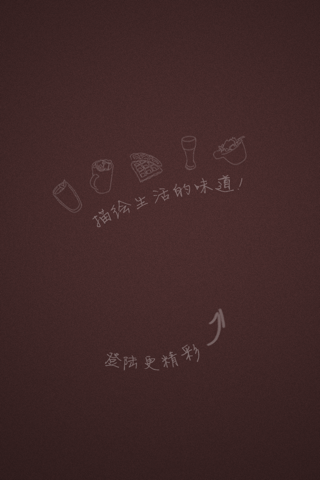
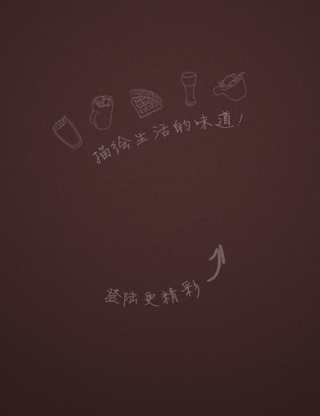
update UI layout and resources

diff --git a/MoreCafe/src/MaRootViewController.m b/MoreCafe/src/MaRootViewController.m
@@ -14,6 +14,7 @@
 #import "MaDataSourceManager.h"
 #import "MaAboutViewController.h"
 #import "BBCyclingLabel.h"
+#import "MaUtility.h"
 
 @interface MaRootViewController ()
 @end
@@ -73,13 +74,12 @@
 	_proverbView.numberOfLines = 0;
 	_proverbView.clipsToBounds = YES;
 	
-	if(bounds.size.height == 548)
-	{
-		UIImageView* bottomImageView = [[UIImageView alloc] initWithFrame:CGRectMake(0, 440, 320, 60)];
+	if ([MaUtility hasFourInchDisplay]) {
+		UIImageView* bottomImageView = [[UIImageView alloc] initWithFrame:CGRectMake(0, 445, 320, 60)];
 		bottomImageView.image = [UIImage imageNamed:@"bottomStyle"];
-		//[self.view addSubview:bottomImageView];	
+		[self.view addSubview:bottomImageView];	
 	}
-	
+
 	[self updateProverb];
 	[self.view addSubview:_proverbView];
 	[self.view addSubview:_scrollView];

diff --git a/MoreCafe/src/MaWeiboViewController.m b/MoreCafe/src/MaWeiboViewController.m
@@ -108,7 +108,18 @@
 	
 	UIImage* image = [UIImage imageNamed:@"weiboLoginButtom"];
 	UIImageView* imageView = [[UIImageView alloc] initWithImage:image];
-	UIButton * buttom = [[UIButton alloc]initWithFrame:CGRectMake(100, 270, imageView.frame.size.width, imageView.frame.size.height)];
+	
+	CGRect buttomFrame ;
+	
+	if ([MaUtility hasFourInchDisplay]) {
+		buttomFrame = CGRectMake(100, 210, imageView.frame.size.width, imageView.frame.size.height);
+	}
+	else
+	{
+		buttomFrame = CGRectMake(100, 190, imageView.frame.size.width, imageView.frame.size.height);
+	}
+	
+	UIButton * buttom = [[UIButton alloc]initWithFrame:buttomFrame];
 	[buttom setImage:image forState:UIControlStateNormal];
 	[buttom addTarget:self action:@selector(loginWeibo) forControlEvents:UIControlEventTouchUpInside]; 
 
